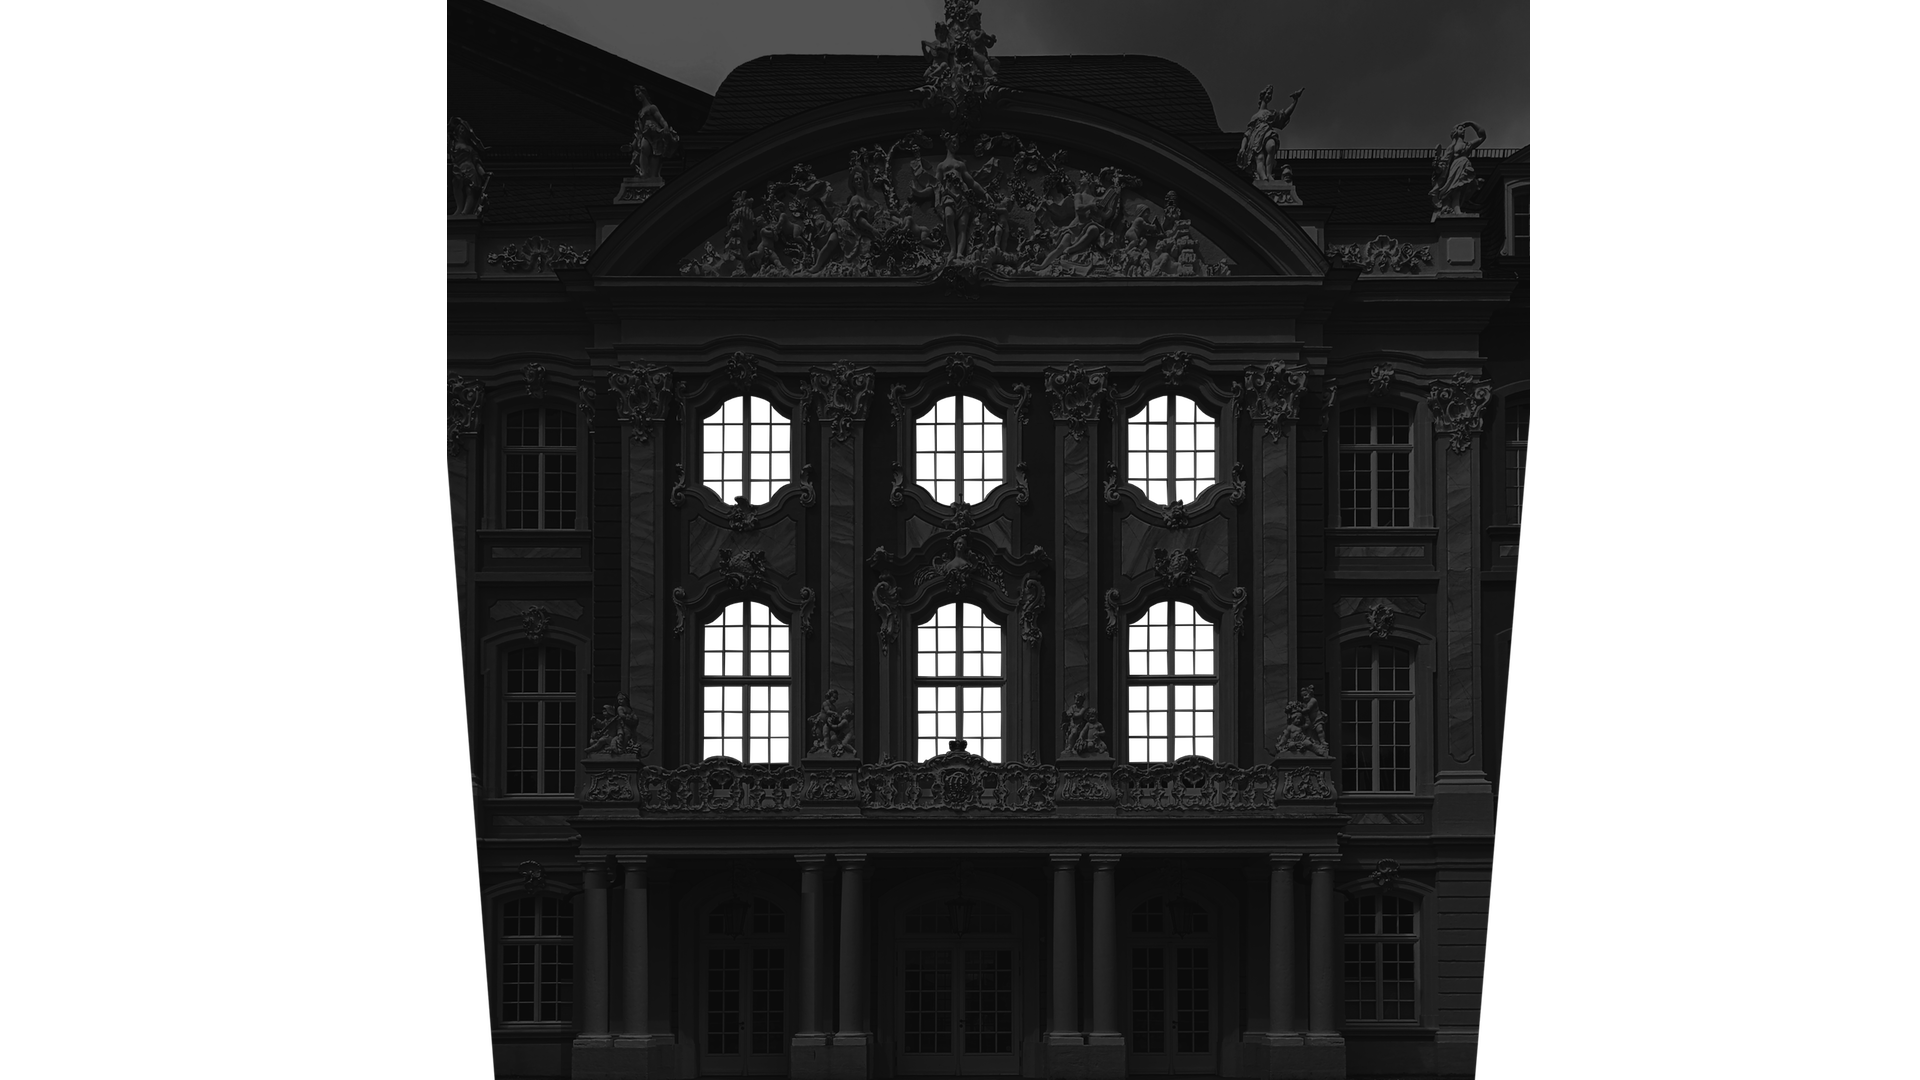
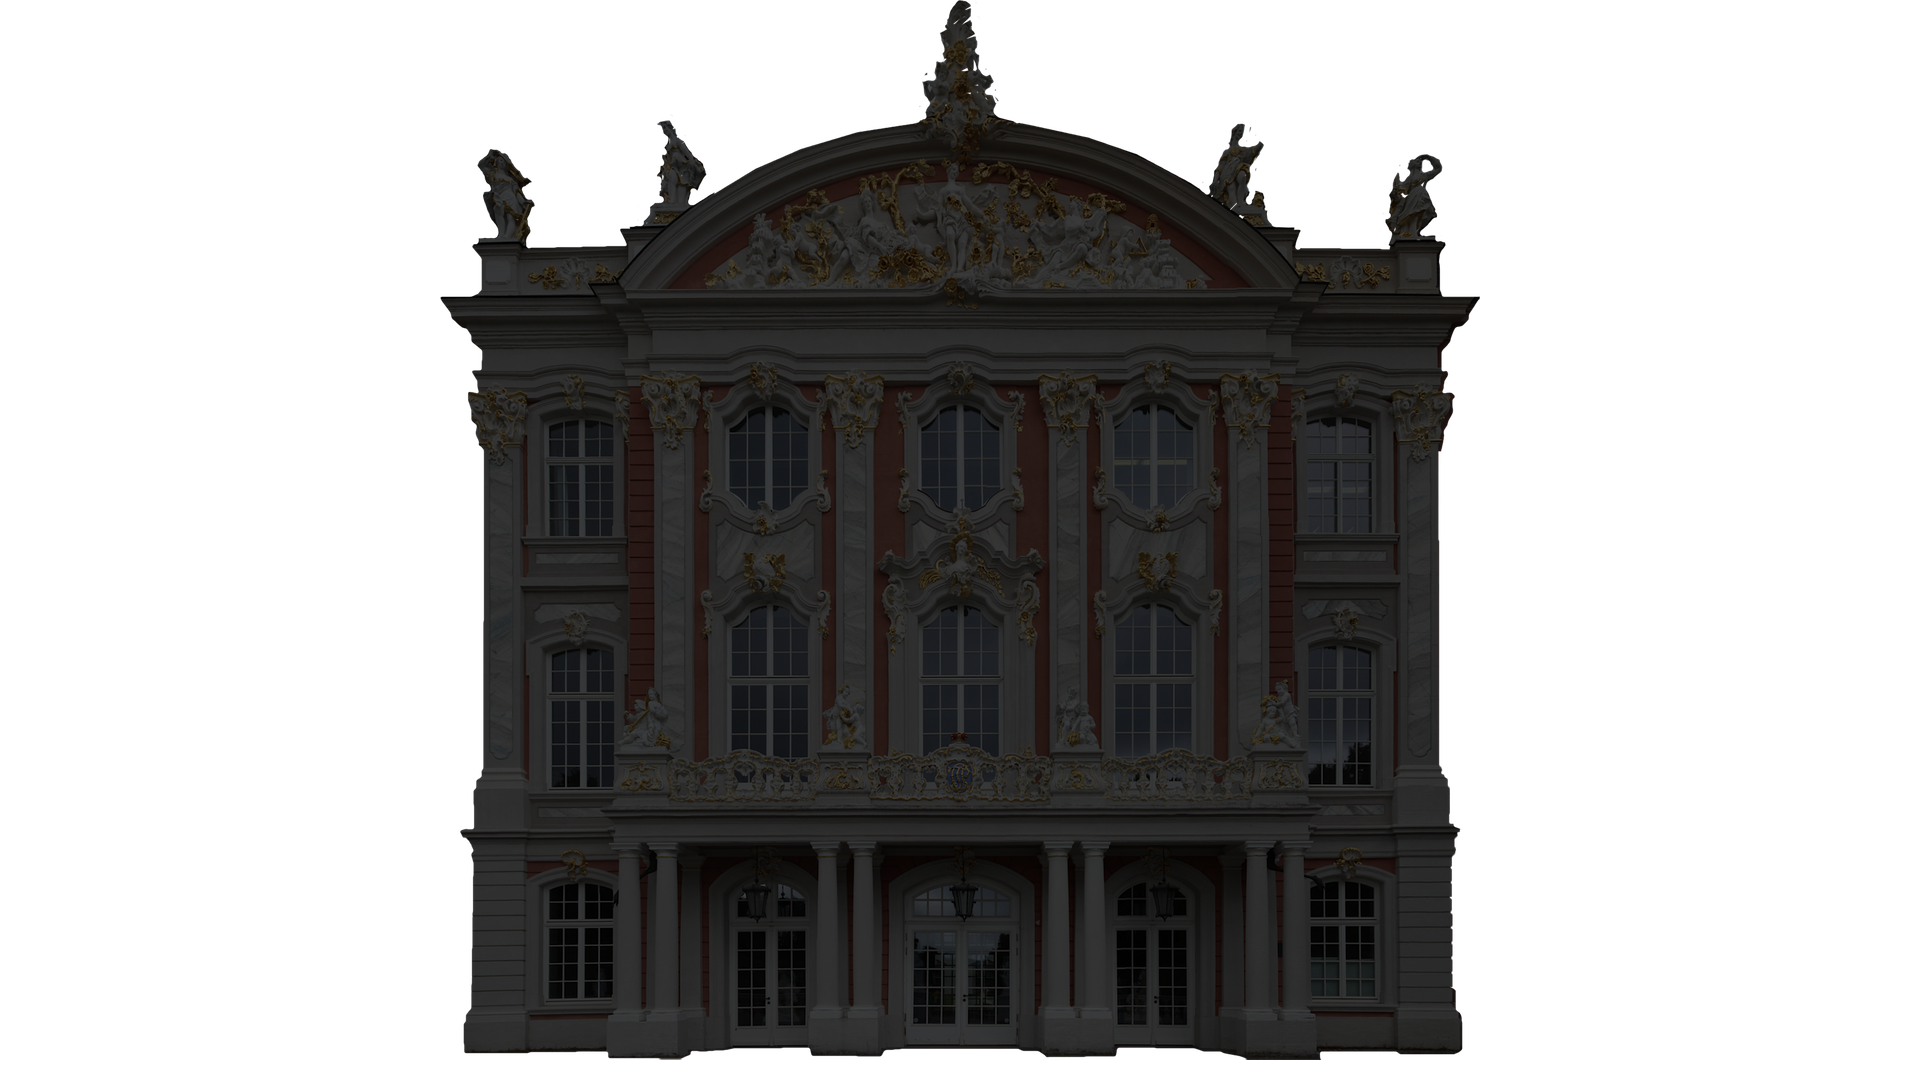
Add New Image, change font size

Changed region(s): [[0.2188, 0.0, 0.8125, 1.0]]

diff --git a/src/ofApp.cpp b/src/ofApp.cpp
@@ -21,13 +21,13 @@ void ofApp::setup() {
 
     switchOn = false;
 
-    for (int i = 0; i < 30; i++) {
+    for (int i = 0; i < 20; i++) {
         ofTrueTypeFont _f;
-        _f.load( "verdana.ttf", (int)ofRandom(7, 24) );
+        _f.load( "verdana.ttf", (int)ofRandom(7, 136) );
         alphabetFont.push_back(_f);
-        TextParticle _t = TextParticle( ofVec3f(621, 556, 0.0), alphabetFont[i] );
+        TextParticle _t = TextParticle( ofVec3f(633, 615, 0.0), alphabetFont[i] );
         textParticles.push_back(_t);
-        _t = TextParticle( ofVec3f(778, 556, 0.0), alphabetFont[i] );
+        _t = TextParticle( ofVec3f(809, 615, 0.0), alphabetFont[i] );
         textParticles.push_back(_t);
     }
 
@@ -134,7 +134,7 @@ vector<string> ofApp::getStringVector(string fileName) {
     vector<string> _result;
 
     ofBuffer _bufferBound = ofBufferFromFile(fileName);
-    if (_bufferBound.size()) {
+    // if (_bufferBound.size()) {
 
         for (ofBuffer::Line it = _bufferBound.getLines().begin(), end = _bufferBound.getLines().end(); it != end; ++it) {
             string _s = *it;
@@ -151,7 +151,7 @@ vector<string> ofApp::getStringVector(string fileName) {
             }
         }
 
-    }
+    // }
 
     return _result;
 
@@ -188,19 +188,22 @@ void ofApp::update() {
 
     if (scaleVolThresholdOn(scaledVol) && switchOn == false) {
         switchOn = true;
-        for (int i = 0; i < 30; i++) {
+        for (int i = 0; i < 10; i++) {
             if (ofRandom(1) < 0.5) {
-                TextParticle _t = TextParticle( ofVec3f(621, 556, 0.0), alphabetFont[i] );
+                TextParticle _t = TextParticle( ofVec3f(633, 615, 0.0), alphabetFont[i] );
                 textParticles.push_back(_t);
             } else {
-                TextParticle _t = TextParticle( ofVec3f(778, 556, 0.0), alphabetFont[i] );
+                TextParticle _t = TextParticle( ofVec3f(809, 615, 0.0), alphabetFont[i] );
                 textParticles.push_back(_t);
             }
         }
     } else {
-        switchOn = false;
+        // switchOn = false;
     }
 
+    if (!scaleVolThresholdOn(scaledVol)) {
+        switchOn = false;
+    }
 
     // cout << textParticles.size() << endl;
 
@@ -281,7 +284,10 @@ void ofApp::midiOutScaleChange() {
 void ofApp::draw() {
 
 
+    ofPushStyle();
+    ofSetColor(180);
     palast_playzone.draw(0, 0, ofGetWidth(), ofGetHeight());
+    ofPopStyle();
 
     for (int i = 0; i < textParticles.size(); ++i) {
         textParticles[i].draw();
@@ -290,7 +296,11 @@ void ofApp::draw() {
 
     // palast_trans.draw(0, 0, ofGetWidth(), ofGetHeight());
     palast_trans_all.draw(0, 0, ofGetWidth(), ofGetHeight());
+
+    ofPushStyle();
+    ofSetColor(0);
     palast_black_windows.draw(0, 0, ofGetWidth(), ofGetHeight());
+    ofPopStyle();
 
 
     audioInputInfo(scaledVol, volHistoryGenerator(scaledVol));

diff --git a/src/TextParticle.cpp b/src/TextParticle.cpp
@@ -15,9 +15,9 @@ TextParticle::TextParticle(ofVec3f _v, ofTrueTypeFont _t) {
 
     float _yRandom; 
     if (ofRandom(1) < 0.5) {
-        _yRandom = ofRandom(-0.25, -2);
+        _yRandom = ofRandom(-0.15, -2);
     } else {
-        _yRandom = ofRandom(0.25, 0.75);
+        _yRandom = ofRandom(0.15, 0.75);
     }
 
 
@@ -27,7 +27,7 @@ TextParticle::TextParticle(ofVec3f _v, ofTrueTypeFont _t) {
 
     stringIndex = (int)ofRandom(26);
 
-    size = (int)ofRandom(7, 24);
+    // size = (int)ofRandom(7, 46);
     c.setHsb( ofRandom(255), 255, 255 );
 
     alphabet = _t;
